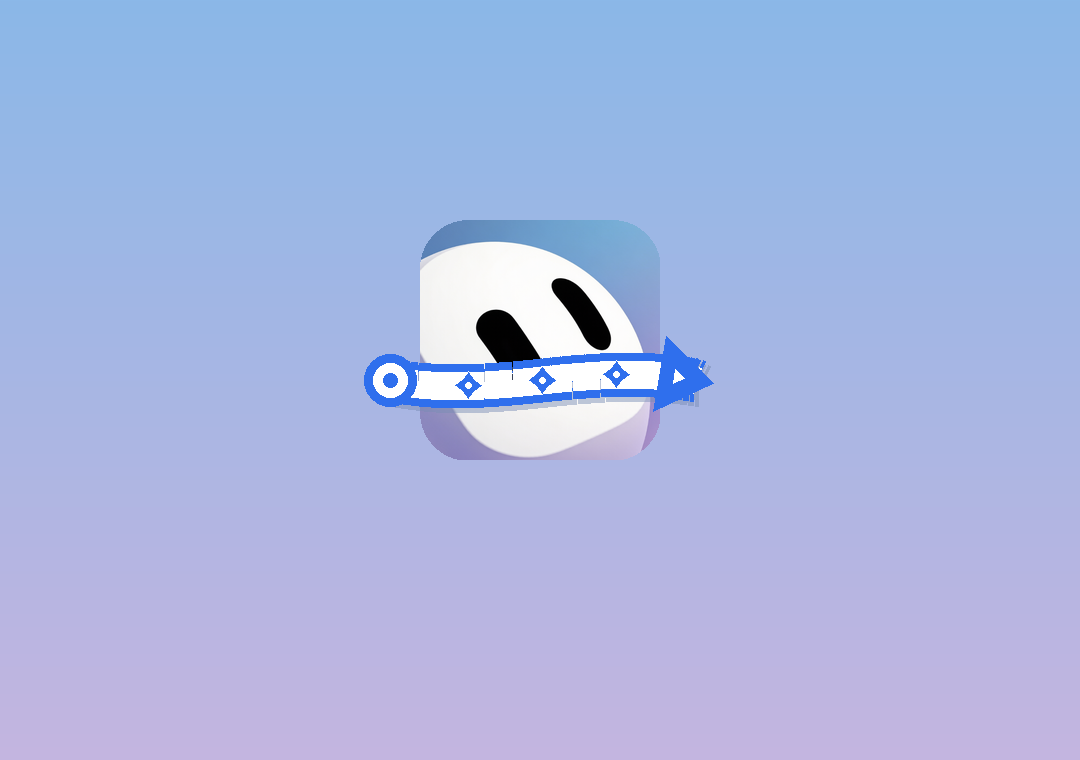
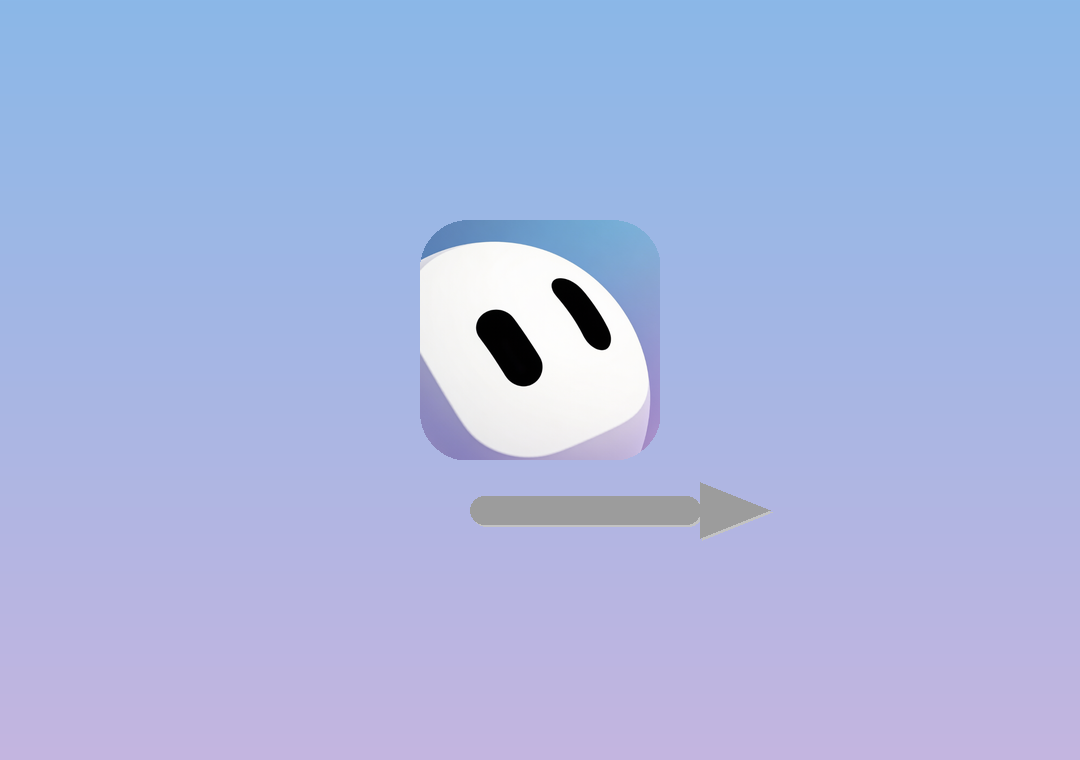
发版 v0.10.29：DMG 箭头改两图标正中 + 记忆新增清空选项

Changed region(s): [[0.3361, 0.4539, 0.6722, 0.5447], [0.4278, 0.6355, 0.7333, 0.7263]]

diff --git a/app/preload.js b/app/preload.js
@@ -55,6 +55,7 @@ contextBridge.exposeInMainWorld('api', {
   memoryGet: (scope, chatId) => ipcRenderer.invoke('memory-get', { scope, chatId }),
   memorySet: (scope, chatId, entries) => ipcRenderer.invoke('memory-set', { scope, chatId, entries }),
   memoryDelete: (scope, chatId, id) => ipcRenderer.invoke('memory-delete', { scope, chatId, id }),
+  memoryClear: (scope, chatId) => ipcRenderer.invoke('memory-clear', { scope, chatId }),
   aiFetchModels: (profile) => ipcRenderer.invoke('ai-fetch-models', profile),
   aiTestConnection: (profile) => ipcRenderer.invoke('ai-test-connection', profile),
   aiVoiceConfigGet: () => ipcRenderer.invoke('ai-voice-config-get'),

diff --git a/app/main.js b/app/main.js
@@ -2191,6 +2191,10 @@ ipcMain.handle('memory-delete', (_e, { scope, chatId, id }) => {
   try { memory.deleteMemoryEntry(scope, chatId, id); return { ok: true }; }
   catch (e) { return { ok: false, error: e.message }; }
 });
+ipcMain.handle('memory-clear', (_e, { scope, chatId }) => {
+  try { memory.clearMemory(scope, chatId); return { ok: true }; }
+  catch (e) { return { ok: false, error: e.message }; }
+});
 ipcMain.handle('memory-enabled-get', () => aiConfig.getMemoryEnabled());
 ipcMain.handle('memory-enabled-set', (_e, enabled) => aiConfig.setMemoryEnabled(enabled));
 ipcMain.handle('ai-voice-config-get', () => aiConfig.getVoiceConfig());

diff --git a/app/renderer/app.js b/app/renderer/app.js
@@ -903,6 +903,15 @@ function initMemorySettings() {
     modal.addEventListener('click', (e) => { if (e.target === modal) modal.classList.add('hidden'); });
   }
 
+  const clearBtn = document.getElementById('btn-clear-memory');
+  if (clearBtn) {
+    clearBtn.addEventListener('click', async () => {
+      if (!confirm('确定要清空所有对话记忆吗？此操作不可撤销。')) return;
+      await window.api.memoryClear('user', null);
+      if (list) await renderMemoryList();
+    });
+  }
+
   async function renderMemoryList() {
     const entries = await window.api.memoryGet('user');
     if (!entries || !entries.length) {

diff --git a/app/memory.js b/app/memory.js
@@ -99,6 +99,12 @@ function deleteMemoryEntry(scope, chatId, id) {
   return filtered;
 }
 
+function clearMemory(scope = 'user', chatId = null) {
+  const entries = loadMemory(scope, chatId);
+  if (entries.length) saveMemory(scope, chatId, []);
+  return true;
+}
+
 function formatMemory(scope = 'user', chatId = null, limit = 30) {
   const entries = loadMemory(scope, chatId);
   if (!entries.length) return '';
@@ -112,6 +118,7 @@ module.exports = {
   saveMemory,
   mergeMemory,
   deleteMemoryEntry,
+  clearMemory,
   formatMemory,
   userMemoryPath,
   chatMemoryPath,

diff --git a/app/renderer/index.html b/app/renderer/index.html
@@ -1037,6 +1037,7 @@
                     </div>
                     <p class="hint" style="margin: 4px 0 12px">开启后，AI 助手会自动从对话中提炼你的偏好、习惯、项目约定等长期信息，并在后续对话中参考，让回复更连贯、更个性化。记忆只保存在本机。</p>
                     <button id="btn-view-memory" class="btn">查看记忆</button>
+                    <button id="btn-clear-memory" class="btn danger" style="margin-left:8px">清空记忆</button>
                   </div>
                 </div>
 

diff --git a/app/CHANGELOG.md b/app/CHANGELOG.md
@@ -1,3 +1,13 @@
+## v0.10.29 — 2026-08-27
+
+### 1. DMG 安装背景箭头修正
+
+- 安装引导图里「拖到应用程序」的箭头，从之前错位的波浪箭头改为 AI Copilot.app 与 Applications 两个图标正中间的简洁灰色水平右箭头（按 `.DS_Store` 真实图标坐标定位，水平居中、不遮挡图标）。
+
+### 2. AI 设置 › 记忆 新增「清空记忆」
+
+- 记忆卡片新增红色「清空记忆」按钮（带二次确认），可一键清空全部对话记忆；原有的「查看记忆」弹窗内单条删除仍保留。
+
 ## v0.10.28 — 2026-08-27
 
 ### 1. DMG 安装背景「拉动」箭头改版
